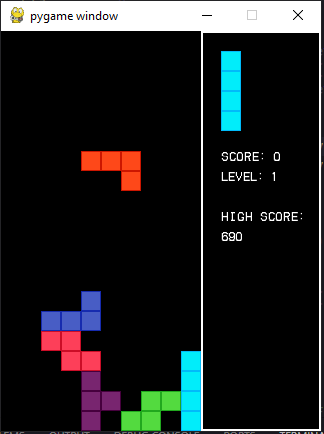
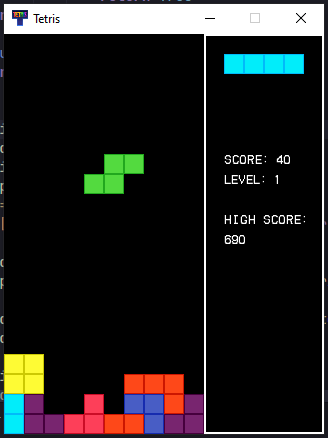
update screeshot

diff --git a/main.py b/main.py
@@ -8,6 +8,7 @@ pygame.init()
 font_home_video = os.path.join(os.getcwd(), 'assets', 'fonts', 'HomeVideo-BLG6G.ttf')
 font_home_video_bold = os.path.join(os.getcwd(), 'assets', 'fonts', 'HomeVideoBold-R90Dv.ttf')
 high_score_path = os.path.join(os.getcwd(), 'assets', 'data', 'high_score.txt')
+logo_path = os.path.join(os.getcwd(), 'assets', 'images', 'logo.png')
 
 # font
 font1 = pygame.font.Font(font_home_video, 12)
@@ -101,6 +102,9 @@ def default_y(tetrimino):
     return 0 - len(tetrimino.shape)
 
 screen = pygame.display.set_mode((GAME_WIDTH + BLOCK_SIZE * 6, GAME_HEIGHT))
+pygame.display.set_caption("Tetris")
+icon_logo = pygame.image.load(logo_path)
+pygame.display.set_icon(icon_logo)
 clock = pygame.time.Clock()
 running = True
 grid = [[(0, 0, 0) for _ in range(COLUMNS)] for _ in range(ROWS)]
